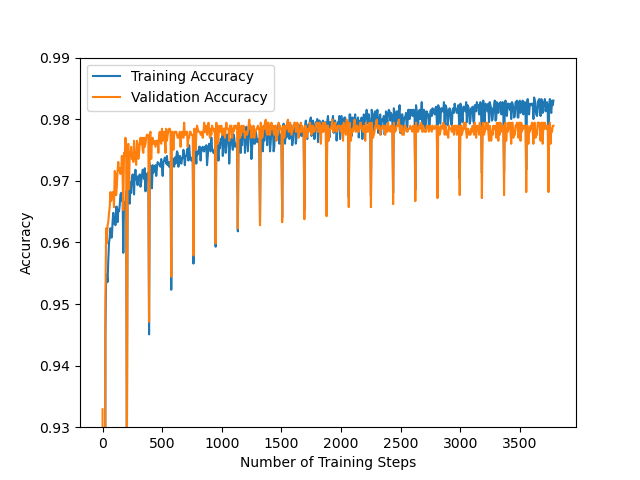
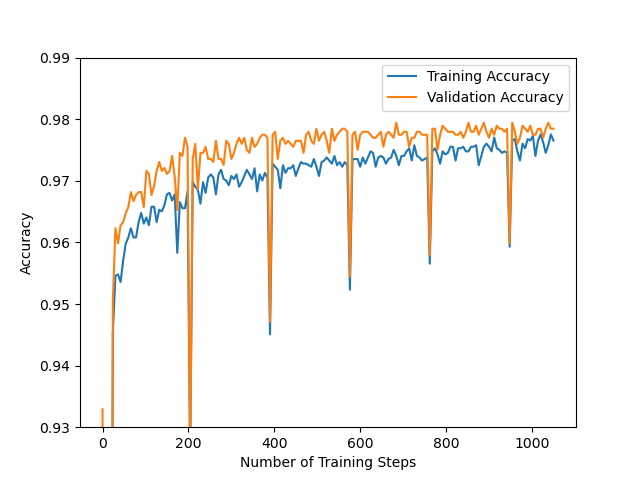
fixed early stopping

diff --git a/assignment1/trainer.py b/assignment1/trainer.py
@@ -75,11 +75,12 @@ class BaseTrainer:
 
 
         global_step = 0
-        stop_signal = 0
+        stop = False
+        best = 1000000000
+        best_arr = []
 
         for epoch in tqdm(range(num_epochs)):
-            if stop_signal>=10:
-                print("breakbreak")
+            if stop:
                 return train_history, val_history
             train_loader = utils.batch_loader(
                 self.X_train, self.Y_train, self.batch_size, shuffle=self.shuffle_dataset)
@@ -88,6 +89,7 @@ class BaseTrainer:
                 # Track training loss continuously
                 train_history["loss"][global_step] = loss
 
+
                 # Track validation loss / accuracy every time we progress 20% through the dataset
                 if global_step % num_steps_per_val == 0:
                     
@@ -95,13 +97,16 @@ class BaseTrainer:
                     train_history["accuracy"][global_step] = accuracy_train
                     val_history["loss"][global_step] = val_loss
                     val_history["accuracy"][global_step] = accuracy_val
+                    best_this_epoch = np.min(val_history["loss"][global_step])
+                    if best_this_epoch<best:
+                        best = best_this_epoch
+                    best_arr.append(best_this_epoch)
+                    
 
                     # TODO (Task 2d): Implement early stopping here.
                     # You can access the validation loss in val_history["loss"]
-                    if global_step>1 and val_loss>=train_history["loss"][global_step-1]:
-                        stop_signal +=1
-                    else:
-                        stop_signal = 0
+                    if best not in best_arr[-10:]:
+                        stop = True
                     
                 global_step += 1
         return train_history, val_history

diff --git a/assignment1/task2.py b/assignment1/task2.py
@@ -72,7 +72,7 @@ class LogisticTrainer(BaseTrainer):
 
 if __name__ == "__main__":
     # hyperparameters DO NOT CHANGE IF NOT SPECIFIED IN ASSIGNMENT TEXT
-    num_epochs = 500
+    num_epochs = 50
     learning_rate = 0.05
     batch_size = 128
     shuffle_dataset = False
@@ -135,7 +135,7 @@ if __name__ == "__main__":
         model, learning_rate, batch_size, shuffle_dataset,
         X_train, Y_train, X_val, Y_val,
     )
-    train_history_shuffle, val_history_shuffle = trainer.train(num_epochs)
+    train_history_shuffle, val_history_shuffle = trainer.train(num_epochs=50)
 
     plt.ylim([0., .2])
     utils.plot_loss(train_history["loss"],
